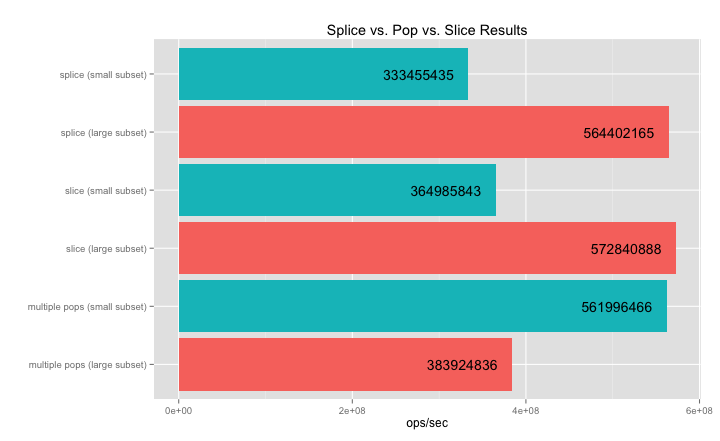
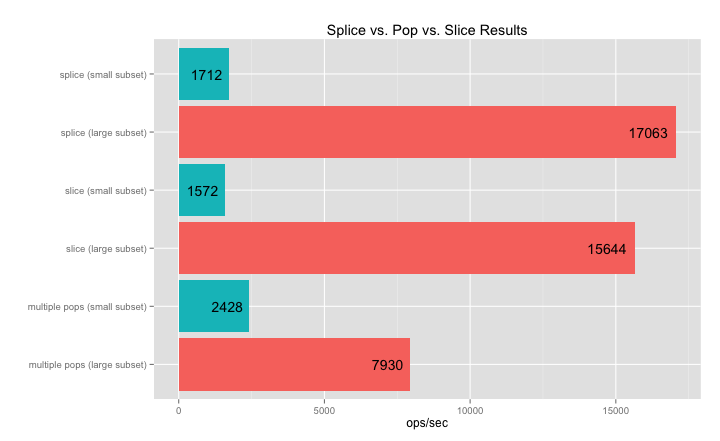
Correct benchmarking errors.

diff --git a/index.js b/index.js
@@ -3,28 +3,29 @@ var Benchmark = require('benchmark');
 var suite = new Benchmark.Suite;
 
 Benchmark.prototype.setup = '\
-var a = [],\n\
-    sets = [],\n\
-    i = 10000;\n\
-while (i--) a.push(i);\n\
+  function createArray () {\n\
+    var a = [], i = 10000;\n\
+    while (i--) a.push(i);\n\
+    return a;\n\
+  }\n\
 ';
 
 suite
 .add('splice (small subset)', '\
-  var n = 2;\n\
+  var n = 2, a = createArray(), sets = [];\n\
   while (a.length >= n) {\n\
     sets.push(a.splice(a.length - n, n));\n\
   }'
 )
 .add('slice (small subset)', '\
-  var n = 2;\n\
+  var n = 2, a = createArray(), sets = [];\n\
   while (a.length >= n) {\n\
     sets.push(a.slice(a.length - n));\n\
     a.length -= n;\n\
   }'
 )
 .add('multiple pops (small subset)', '\
-  var n = 2;\n\
+  var n = 2, a = createArray(), sets = [];\n\
   while (a.length >= n) {\n\
     var set = [];\n\
     for (var i = 0; i \x3C n; i++) {\n\
@@ -34,20 +35,20 @@ suite
   }'
 )
 .add('splice (large subset)', '\
-  var n = 1000;\n\
+  var n = 1000, a = createArray(), sets = [];\n\
   while (a.length >= n) {\n\
     sets.push(a.splice(a.length - n, n));\n\
   }'
 )
 .add('slice (large subset)', '\
-  var n = 1000;\n\
+  var n = 1000, a = createArray(), sets = [];\n\
   while (a.length >= n) {\n\
     sets.push(a.slice(a.length - n));\n\
     a.length -= n;\n\
   }'
 )
 .add('multiple pops (large subset)', '\
-  var n = 1000;\n\
+  var n = 1000, a = createArray(), sets = [];\n\
   while (a.length >= n) {\n\
     var set = [];\n\
     for (var i = 0; i \x3C n; i++) {\n\

diff --git a/README.md b/README.md
@@ -12,14 +12,13 @@ the subset size.
 
 ### Results
 ```
-❯ splice-pop-slice-perf git/master node index.js
-splice (small subset) x 333,455,435 ops/sec ±16.80% (60 runs sampled)
-slice (small subset) x 364,985,843 ops/sec ±15.00% (67 runs sampled)
-multiple pops (small subset) x 561,996,466 ops/sec ±0.60% (96 runs sampled)
-splice (large subset) x 564,402,165 ops/sec ±0.24% (101 runs sampled)
-slice (large subset) x 572,840,888 ops/sec ±0.25% (96 runs sampled)
-multiple pops (large subset) x 383,924,836 ops/sec ±15.79% (68 runs sampled)
-Fastest is slice (large subset)
+splice (small subset) x 1,712 ops/sec ±0.70% (95 runs sampled)
+slice (small subset) x 1,572 ops/sec ±0.52% (96 runs sampled)
+multiple pops (small subset) x 2,428 ops/sec ±1.06% (94 runs sampled)
+splice (large subset) x 17,063 ops/sec ±0.50% (97 runs sampled)
+slice (large subset) x 15,644 ops/sec ±0.63% (95 runs sampled)
+multiple pops (large subset) x 7,930 ops/sec ±0.34% (102 runs sampled)
+Fastest is splice (large subset)
 ```
 
 ![Graph of results](results.png)
